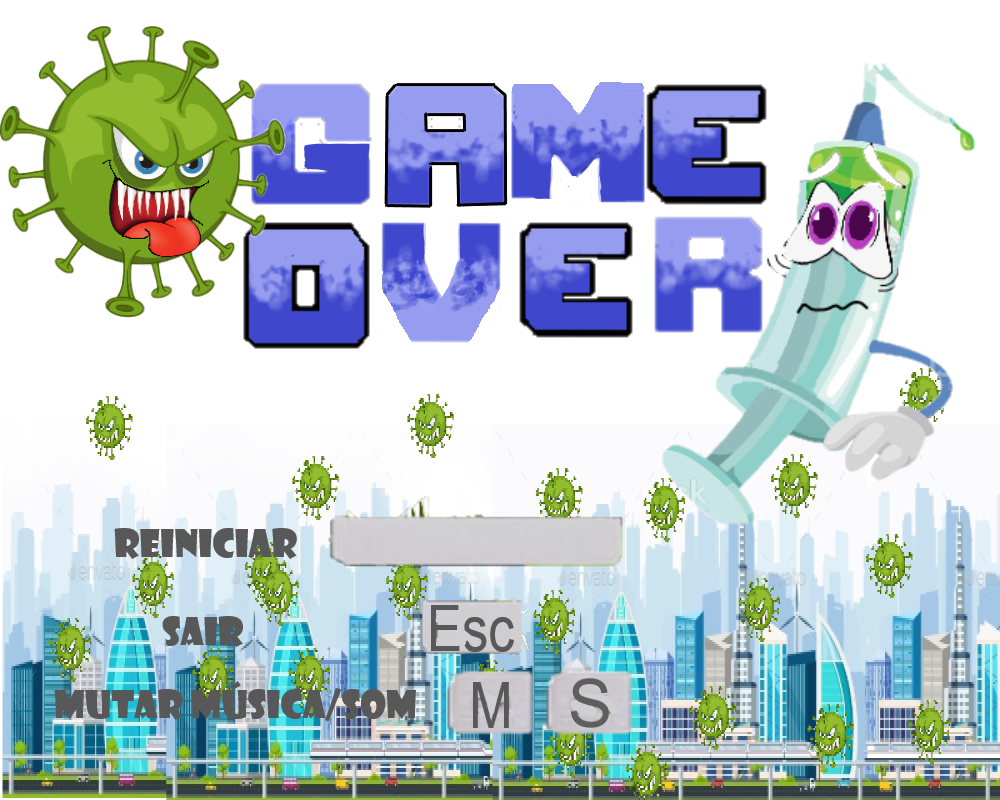
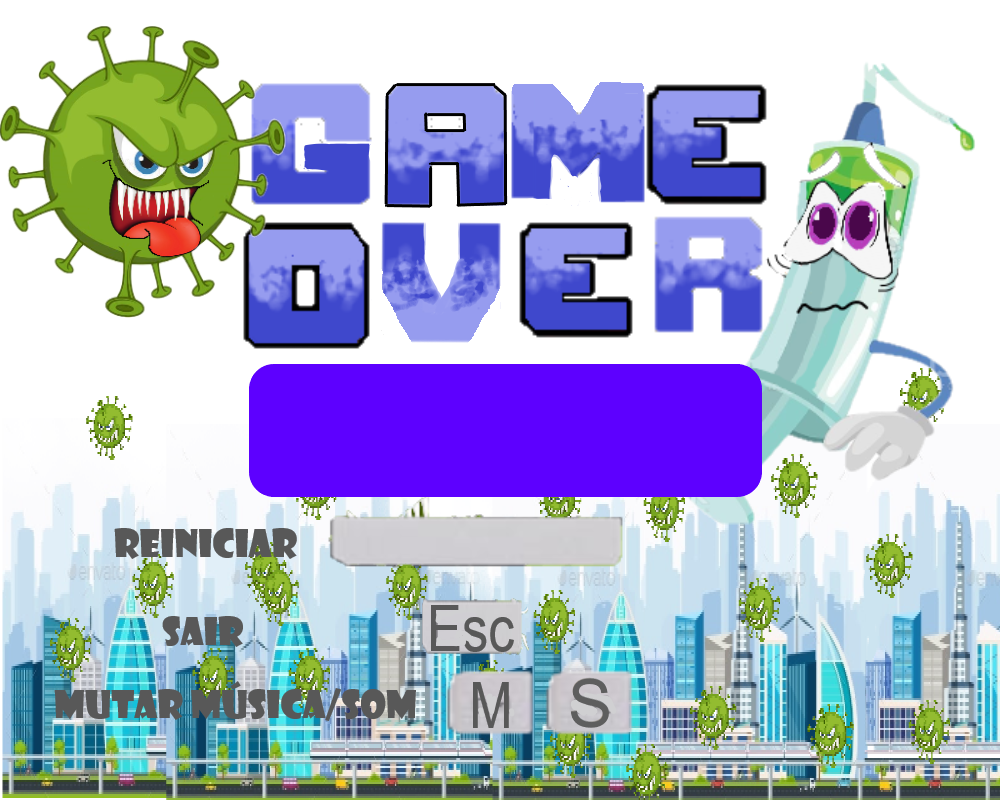
Ajustei o score nas telas

Changed region(s): [[0.248, 0.4375, 0.775, 0.625]]

diff --git a/coronashooter/main.py b/coronashooter/main.py
@@ -52,6 +52,7 @@ class Jogo:
         self.img_tela_inicial = Telas('tela_inicial.png', self.screen_size)
         self.img_tela_final = Telas('tela_final.png',self.screen_size)
         self.img_tela_pausa = Telas('tela_pause.png',self.screen_size)
+        self.img_tela_win = Telas('tela_win.png',self.screen_size)
 
         self.jogador = Jogador([0.45*self.screen_size[0], 0.8*self.screen_size[1]], 5)
         self.interval = 0
@@ -250,8 +251,8 @@ class Jogo:
     def verifica_pausa(self):
         while(self.pause):
             self.img_tela_pausa.draw(self.tela)
-            self.escreve_placar(x_score=0.53, y_score=0.55,
-                                x_vidas=0.53, y_vidas=0.65)
+            self.escreve_placar(x_score=0.53, y_score=0.65,
+                                x_vidas=0.53, y_vidas=0.70)
             pygame.display.flip()
             event = pygame.event.poll()
             #evento para sair do jogo ao clicar no X da janela
@@ -308,8 +309,8 @@ class Jogo:
     def tela_final(self):
         self.finalizando = True
         self.img_tela_final.draw(self.tela)
-        self.escreve_placar(x_score=0.51, y_score=0.48,
-                            x_vidas=0.45, y_vidas=0.65)
+        self.escreve_placar(x_score=0.51, y_score=0.51,
+                            x_vidas=0.45, y_vidas=0.53)
         pygame.display.flip()
         while self.finalizando:
             event = pygame.event.poll()
